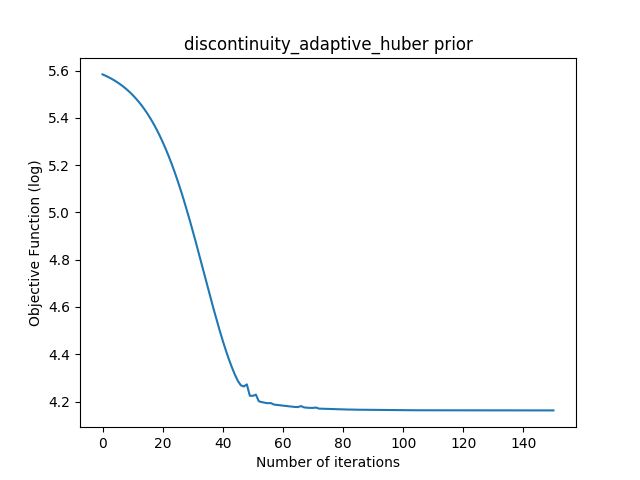
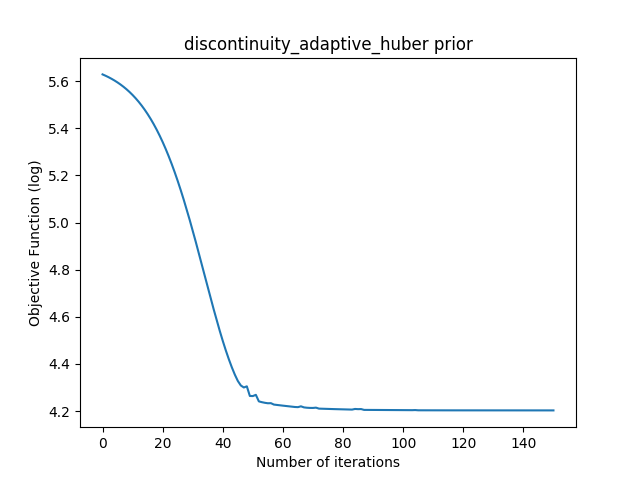
done

diff --git a/assignmentReconstruction/code/q2.py b/assignmentReconstruction/code/q2.py
@@ -18,14 +18,22 @@ ChestPhantom = plt.imread("../data/ChestPhantom.png")
 print (ChestPhantom.shape)
 theta = np.linspace(start = 0, stop = 180,num = 180,endpoint = False, dtype = int)
 sinogram = radon(ChestPhantom, theta, circle = True)
-
+print (sinogram.shape)
 # Solving for A (High computational complexity)
+
+A = []
 size = 128*128
 for i in range(size):
 	a = np.zeros(size)
 	a = np.expand_dims(a, axis = 1)
 	a[i] = 1
 	a = radon(a,theta)
+	A.append(a)
+
+A = np.vstack(A)
+A = np.transpose(A)
+sinogram_from_manual = np.dot(A,ChestPhantom.reshape(-1,1))
+
 # a = np.eye(size)
 # A = radon(a, theta)
 # A = np.transpose(A)
@@ -37,45 +45,54 @@ noise = np.random.normal(0,diff*0.02,sinogram.shape)
 sinogram_withnoise = sinogram + noise
 
 img_recon = iradon(sinogram_withnoise, theta)
+print (rrmse(img_recon,ChestPhantom))
 
 #part d Tikhonov 
 from sklearn.linear_model import Ridge 
-
-clf = Ridge(alpha = 1.0)
-clf.fit(img_recon,ChestPhantom)
-
-
+val = 100000
+for alpha in range(0,100,1):
+	alpha = alpha/100
+	clf = Ridge(alpha = alpha)
+	clf.fit(ChestPhantom,sinogram)
+	y = clf.predict(ChestPhantom)
+	img_recon = iradon(y,theta)
+	a = rrmse(img_recon,ChestPhantom)
+	print (a)
+	if a < val:
+		param = alpha
+		val = a 
+print (param) 
 # Part e 
 
 denoise(img_recon, ChestPhantom, alpha=0.0875, optimize_mode=False, prior='quadratic', 
-	save_results_dir=os.path.join(save_results_dir, 'quadratic', 'low_noise_level'))
+	save_results_dir=os.path.join(save_results_dir, 'quadratic', 'img_recon'))
 print('RRMSE at 1.2 times optimum alpha=', round(denoise(img_recon, ChestPhantom, alpha=0.0875*1.2, optimize_mode=True, prior='quadratic', 
-	save_results_dir=os.path.join(save_results_dir, 'quadratic', 'low_noise_level')), 5))
+	save_results_dir=os.path.join(save_results_dir, 'quadratic', 'img_recon')), 5))
 print('RRMSE at 0.8 times optimum alpha=', round(denoise(img_recon, ChestPhantom, alpha=0.0875*0.8, optimize_mode=True, prior='quadratic', 
-	save_results_dir=os.path.join(save_results_dir, 'quadratic', 'low_noise_level')), 5))
+	save_results_dir=os.path.join(save_results_dir, 'quadratic', 'img_recon')), 5))
 print('---------------------------------------------------------------------------------\n')
 
 
 denoise(img_recon, ChestPhantom, alpha=0.8748, gamma=0.0023, optimize_mode=False, prior='discontinuity_adaptive', 
-	save_results_dir=os.path.join(save_results_dir, 'discontinuity_adaptive', 'low_noise_level'))
+	save_results_dir=os.path.join(save_results_dir, 'discontinuity_adaptive', 'img_recon'))
 print('RRMSE at 1.2 times optimum alpha=', round(denoise(img_recon, ChestPhantom, alpha=0.8748*1.2, gamma=0.0023, optimize_mode=True, prior='discontinuity_adaptive', 
-	save_results_dir=os.path.join(save_results_dir, 'discontinuity_adaptive', 'low_noise_level')), 5))
+	save_results_dir=os.path.join(save_results_dir, 'discontinuity_adaptive', 'img_recon')), 5))
 print('RRMSE at 0.8 times optimum alpha=', round(denoise(img_recon, ChestPhantom, alpha=0.8748*0.8, gamma=0.0023, optimize_mode=True, prior='discontinuity_adaptive', 
-	save_results_dir=os.path.join(save_results_dir, 'discontinuity_adaptive', 'low_noise_level')), 5))
+	save_results_dir=os.path.join(save_results_dir, 'discontinuity_adaptive', 'img_recon')), 5))
 print('RRMSE at 1.2 times optimum gamma=', round(denoise(img_recon, ChestPhantom, alpha=0.8748, gamma=0.0023*1.2, optimize_mode=True, prior='discontinuity_adaptive', 
-	save_results_dir=os.path.join(save_results_dir, 'discontinuity_adaptive', 'low_noise_level')), 5))
+	save_results_dir=os.path.join(save_results_dir, 'discontinuity_adaptive', 'img_recon')), 5))
 print('RRMSE at 0.8 times optimum gamma=', round(denoise(img_recon, ChestPhantom, alpha=0.8748, gamma=0.0023*0.8, optimize_mode=True, prior='discontinuity_adaptive', 
-	save_results_dir=os.path.join(save_results_dir, 'discontinuity_adaptive', 'low_noise_level')), 5))
+	save_results_dir=os.path.join(save_results_dir, 'discontinuity_adaptive', 'img_recon')), 5))
 
 
 denoise(img_recon, ChestPhantom, alpha=0.8748, gamma=0.00211, optimize_mode=False, prior='discontinuity_adaptive_huber', 
-	save_results_dir=os.path.join(save_results_dir, 'discontinuity_adaptive_huber', 'low_noise_level'))
+	save_results_dir=os.path.join(save_results_dir, 'discontinuity_adaptive_huber', 'img_recon'))
 print('RRMSE at 1.2 times optimum alpha=', round(denoise(img_recon, ChestPhantom, alpha=0.8748*1.2, gamma=0.00211, optimize_mode=True, prior='discontinuity_adaptive_huber', 
-	save_results_dir=os.path.join(save_results_dir, 'discontinuity_adaptive_huber', 'low_noise_level')), 5))
+	save_results_dir=os.path.join(save_results_dir, 'discontinuity_adaptive_huber', 'img_recon')), 5))
 print('RRMSE at 0.8 times optimum alpha=', round(denoise(img_recon, ChestPhantom, alpha=0.8748*0.8, gamma=0.00211, optimize_mode=True, prior='discontinuity_adaptive_huber', 
-	save_results_dir=os.path.join(save_results_dir, 'discontinuity_adaptive_huber', 'low_noise_level')), 5))
+	save_results_dir=os.path.join(save_results_dir, 'discontinuity_adaptive_huber', 'img_recon')), 5))
 print('RRMSE at 1.2 times optimum gamma=', round(denoise(img_recon, ChestPhantom, alpha=0.8748, gamma=0.00211*1.2, optimize_mode=True, prior='discontinuity_adaptive_huber', 
-	save_results_dir=os.path.join(save_results_dir, 'discontinuity_adaptive_huber', 'low_noise_level')), 5))
+	save_results_dir=os.path.join(save_results_dir, 'discontinuity_adaptive_huber', 'img_recon')), 5))
 print('RRMSE at 0.8 times optimum gamma=', round(denoise(img_recon, ChestPhantom, alpha=0.8748, gamma=0.00211*0.8, optimize_mode=True, prior='discontinuity_adaptive_huber', 
-	save_results_dir=os.path.join(save_results_dir, 'discontinuity_adaptive_huber', 'low_noise_level')), 5))
+	save_results_dir=os.path.join(save_results_dir, 'discontinuity_adaptive_huber', 'img_recon')), 5))
 print('---------------------------------------------------------------------------------\n')
